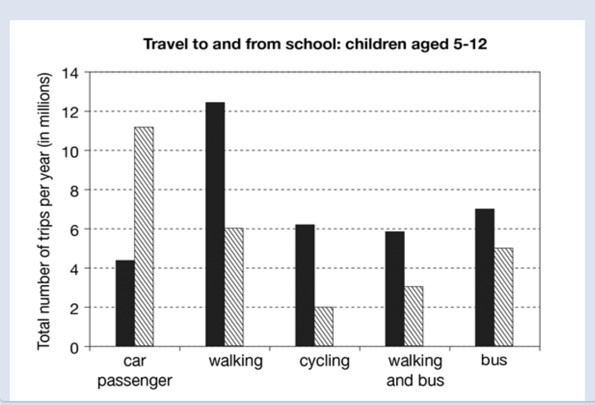
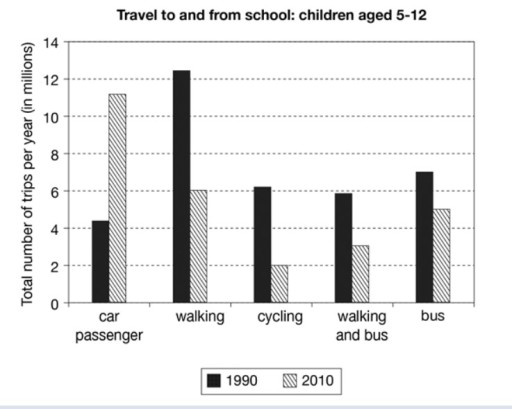
fix(member1): provide complete Task 1 chart in basic cases

Changed region(s): [[0.0, 0.0, 1.0, 1.0]]

diff --git a/docs/member1_to_member5_handoff.md b/docs/member1_to_member5_handoff.md
@@ -33,6 +33,8 @@ Benchmark có 8 trường: `case_id`, `task_type`, `exam_question`, `essay`, `ma
 
 Benchmark dùng chuỗi `material="evals/materials/ten_anh.png"`; basic cases dùng object `material={"path": "evals/materials/...jpg", "url": "https://..."}`. Task 2 có `material=null`.
 
+Với basic cases Task 1, nạp cả đề từ `exam_question` và ảnh từ `material.path` hoặc `material.url`. Ảnh có đầy đủ tiêu đề, trục, đơn vị và chú giải 1990/2010.
+
 ```python
 from pathlib import Path
 
@@ -67,7 +69,7 @@ Không gửi `scores`, `feedback`, `expected` hoặc trang nguồn có đáp án
 
 Với mỗi kết quả thành công, kiểm tra đủ bốn tiêu chí, evidence/offset khớp bài gốc, descriptor refs đúng chunks của lượt retrieval, số từ theo tool N4, overall theo hàm tính điểm đã thống nhất. Không tự trừ cố định band vì thiếu từ. Cờ đạo văn phụ thuộc corpus; không mặc định bài public là bài tự viết không đạo văn.
 
-Nguồn basic cases: bài Case 1/2/3a/3b từ [IELTS.org — candidate responses](https://ielts.org/cdn/computer-delivered-sample-tests-academic-writing/ielts-academic-writing-example-responses-to-parts-1-and-2-with-band-scores-and-examiner-comments.pdf); Case 5 từ trang 18 của [IELTS.org — sample tasks](https://ielts.org/cdn/Sample-tests/ielts-academic-writing-sample-tasks-2023.pdf). Case 4 là đề du lịch và bài về hoàn cảnh gia đình được cung cấp để thử lạc đề; URL trong fixture chỉ dẫn PDF có đề du lịch gốc. [Biểu đồ phương tiện đến trường](https://www.ieltsluminary.com/post/the-number-of-trips-made-by-children) đi kèm Case 1/3a; phần mô tả đề đã ghi chú hai năm vì ảnh thiếu chú giải.
+Nguồn basic cases: bài Case 1/2/3a/3b từ [IELTS.org — candidate responses](https://ielts.org/cdn/computer-delivered-sample-tests-academic-writing/ielts-academic-writing-example-responses-to-parts-1-and-2-with-band-scores-and-examiner-comments.pdf); Case 5 từ trang 18 của [IELTS.org — sample tasks](https://ielts.org/cdn/Sample-tests/ielts-academic-writing-sample-tasks-2023.pdf). Case 4 là đề du lịch và bài về hoàn cảnh gia đình được cung cấp để thử lạc đề; URL trong fixture chỉ dẫn PDF có đề du lịch gốc. [Đề và biểu đồ phương tiện đến trường trên Engnovate](https://engnovate.com/ugc-ielts-writing-task-1-topics/the-chart-below-shows-the-number-of-trips-made-by-children-in-one-country-in-1990-and-2010-to-travel-65db35dd6f71d/) đi kèm Case 1/3a; chỉ lấy đề và ảnh, bài làm vẫn giữ bản từ IELTS.org.
 
 ## Kiểm tra trước khi chạy Agent
 

diff --git a/docs/data_sources.md b/docs/data_sources.md
@@ -23,4 +23,4 @@ Dùng nguồn public, giữ nguyên văn bản, loại thư và bản trùng chu
 
 ## Basic cases
 
-[5_basic_cases.json](../evals/data/5_basic_cases.json) gồm 5 nhóm/6 bài kiểm tra hành vi, `scores=null`. Bài viết và đề lấy từ IELTS.org; câu hỏi sức khỏe đối chiếu IDP; biểu đồ phương tiện đến trường lấy từ IELTS Luminary. Case lạc đề dùng bài và đề được cung cấp cho tình huống kiểm thử. Nguồn cụ thể và hướng dẫn chạy ở [member1_to_member5_handoff.md](member1_to_member5_handoff.md).
+[5_basic_cases.json](../evals/data/5_basic_cases.json) gồm 5 nhóm/6 bài kiểm tra hành vi, `scores=null`. Bài viết và đề lấy từ IELTS.org; câu hỏi sức khỏe đối chiếu IDP; biểu đồ phương tiện đến trường có đủ chú giải lấy từ Engnovate. Task 1 dùng cả `exam_question` và ảnh trong `material`. Case lạc đề dùng bài và đề được cung cấp cho tình huống kiểm thử. Nguồn cụ thể và hướng dẫn chạy ở [member1_to_member5_handoff.md](member1_to_member5_handoff.md).

diff --git a/evals/materials/README.md b/evals/materials/README.md
@@ -216,4 +216,6 @@
 
 ![Phương tiện đến trường](basic_cases_school_trips.jpg)
 
-[Nguồn biểu đồ](https://www.ieltsluminary.com/post/the-number-of-trips-made-by-children)
+Ảnh có đầy đủ tiêu đề, trục, đơn vị và chú giải 1990/2010. Đề bài nằm ở `exam_question` của hai case; khi chạy Task 1 phải nạp cả đề và ảnh.
+
+[Nguồn đề và biểu đồ](https://engnovate.com/ugc-ielts-writing-task-1-topics/the-chart-below-shows-the-number-of-trips-made-by-children-in-one-country-in-1990-and-2010-to-travel-65db35dd6f71d/)
